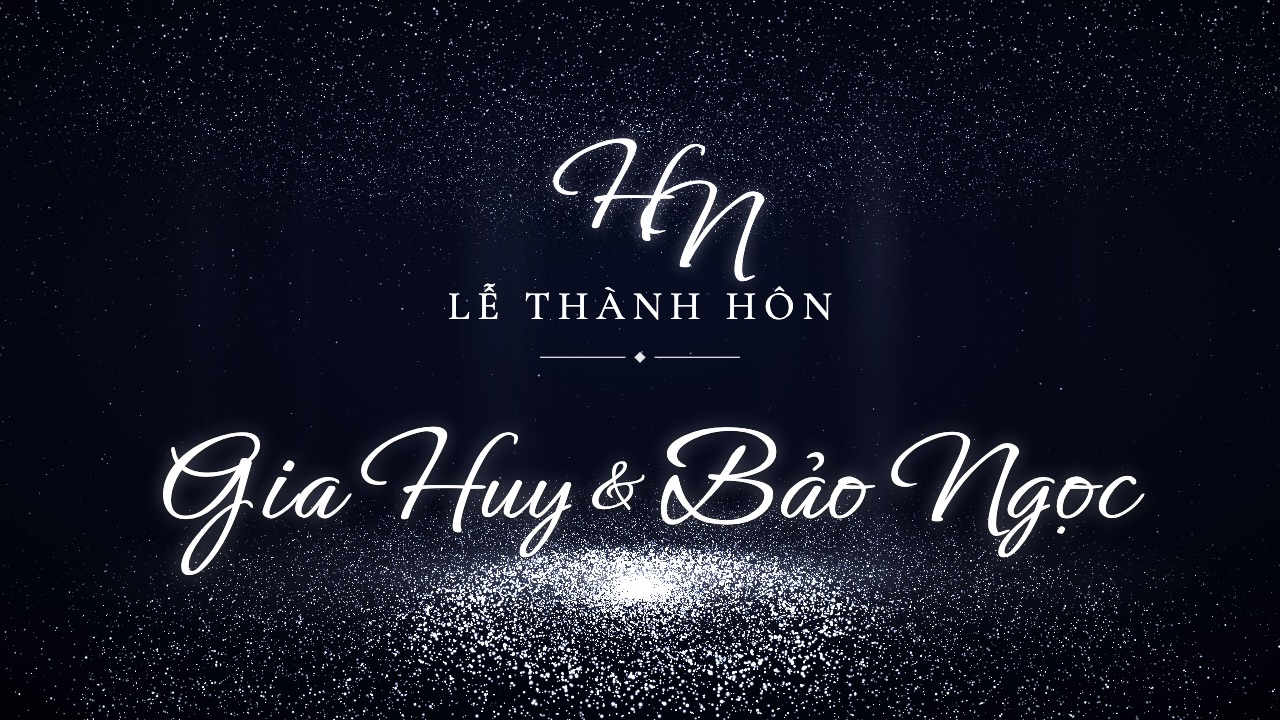
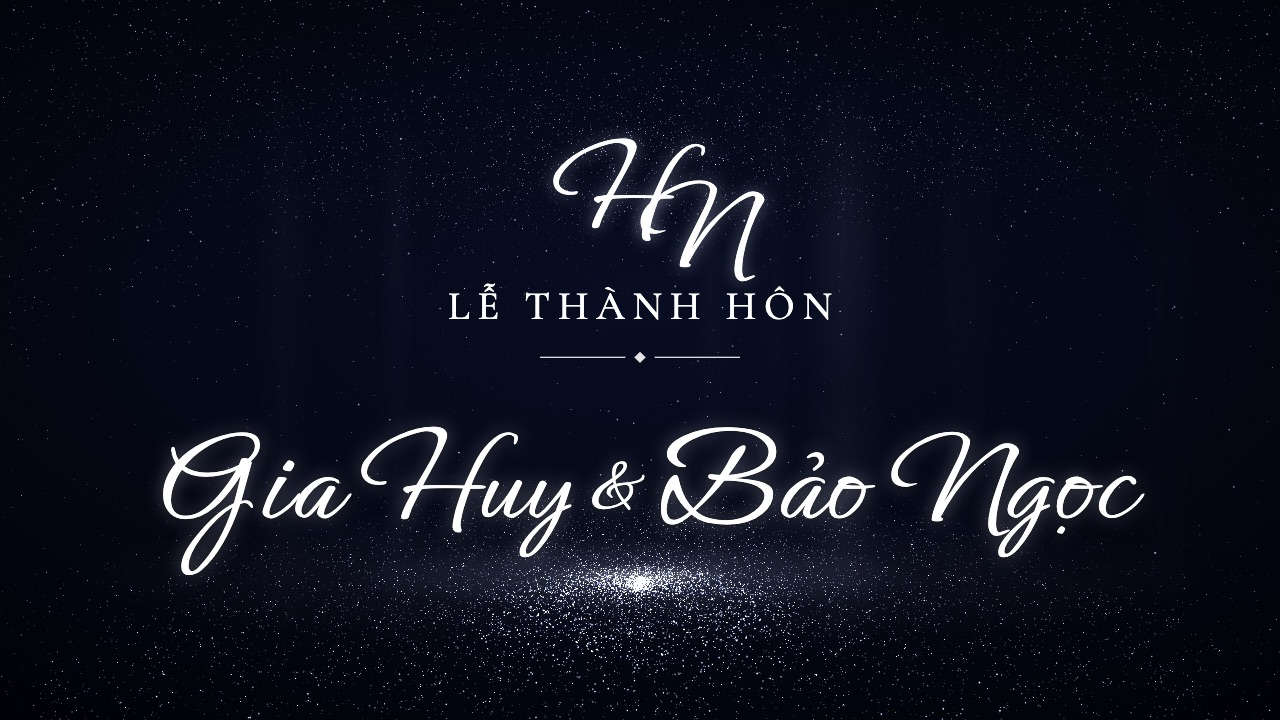
Màn LED "Sao rơi": nhẹ nhàng hơn — hạt kim tuyến nhỏ và dịu hơn (cỡ ×0,72, sáng ×0,6), ít hạt hơn; tâm đĩa bớt chói; khi sao chạm sàn thì loé nhỏ hơn, ít hạt bắn, đĩa chỉ sáng lên vừa phải rồi dịu chậm, vòng sóng mềm và rộng hơn; ngôi sao bớt gắt

diff --git a/public/led/led.js b/public/led/led.js
@@ -250,7 +250,7 @@
         }
         // quầng sáng tâm sàn (đập rất nhẹ) và vệt sáng mờ dọc dải trần
         var pul = 0.85 + 0.15 * Math.sin(t * 0.9 * sp);
-        ctx.globalAlpha = (this.mode === 'saoroi' && this.useGl ? 0.3 + 0.7 * GLFX.glow : this.useGl ? 0.16 : 0.9) * pul; // bản WebGL: chỉ còn một quầng rất nhạt, không thành cụm trắng
+        ctx.globalAlpha = (this.mode === 'saoroi' && this.useGl ? 0.16 + 0.34 * GLFX.glow : this.useGl ? 0.16 : 0.9) * pul; // bản WebGL: chỉ còn một quầng rất nhạt, không thành cụm trắng
         ctx.drawImage(this.core, W / 2 - W * 0.45, floor - H * 0.1, W * 0.9, H * 0.2);
         if (!this.useGl) { ctx.globalAlpha = 0.22; ctx.drawImage(this.core, W / 2 - W * 0.55, top - H * 0.045, W * 1.1, H * 0.09); }
         // kim tuyến: 4 tấm đổi độ sáng lệch pha + trôi ngang rất chậm ngược chiều nhau → lấp lánh, có chiều sâu
@@ -618,7 +618,7 @@
   // Mọi hạt chuyển động trong shader (card đồ hoạ tính) nên hàng chục nghìn hạt vẫn 60 khung hình/giây. Máy không có WebGL → bản canvas 2D.
   var GLFX = {
     gl: null, cv: null, time: 0, rip: [], heroes: [], sparks: [], nextDrop: 0,
-    VS_PTS: 'attribute vec4 aP;uniform float uT,uAsp,uPx;uniform vec3 uRip[8];uniform vec4 uRp;uniform vec3 uCen;varying float vA;' +
+    VS_PTS: 'attribute vec4 aP;uniform float uT,uAsp,uPx;uniform vec3 uRip[8];uniform vec4 uRp;uniform vec3 uCen;uniform vec2 uSt;varying float vA;' +
       'void main(){float seed=aP.z;float tw=pow(0.5+0.5*sin(uT*(1.2+seed*3.7)+seed*61.0),3.0);' +
       'if(aP.w>1.5){gl_Position=vec4(aP.xy,0.0,1.0);float big=step(0.965,fract(seed*29.0));gl_PointSize=uPx*(1.3+2.2*fract(seed*7.3)+big*3.5);vA=(0.18+0.82*tw)*(0.55+0.45*fract(seed*3.1)+big*0.5);return;}' +
       'float fl=aP.w<0.5?1.0:0.0;float ang=aP.y+uT*(fl>0.5?0.03:-0.02)*(1.0+0.7/(0.5+aP.x));' +
@@ -626,8 +626,8 @@
       'if(fl>0.5){for(int i=0;i<8;i++){float age=uT-uRip[i].z;if(age>0.0&&age<6.0){float d=distance(p.xz,uRip[i].xy);' +
       'float w=exp(-pow((d-age*uRp.x)/uRp.y,2.0))*exp(-age*uRp.z);float w2=exp(-pow((d-age*uRp.x+uRp.y*2.7)/(uRp.y*0.8),2.0))*exp(-age*uRp.z*1.6)*0.55;lift+=(w+w2)*uRp.w;}}}' +
       'p.y+=lift*0.065;float zc=3.2-p.z;float f=2.1445;gl_Position=vec4(p.x*f/uAsp*zc/zc,p.y*f,0.0,zc);gl_Position.x=p.x*f/uAsp;' +
-      'float sz=uPx*(2.4+5.0*fract(seed*13.7)*fract(seed*5.1))*2.6/zc;gl_PointSize=max(1.0,sz)*(1.0+lift*1.0);' +
-      'float far=clamp(1.3-zc*0.09,0.5,1.0);vA=((0.5+1.1*tw)*(1.15+0.35*exp(-aP.x*0.8)+fl*(uCen.x+uCen.y)*exp(-aP.x*uCen.z))*(fl>0.5?1.0:0.8)+lift*1.7)*far*smoothstep(0.15,0.7,zc)*(1.0-smoothstep(1.7,3.0,aP.x)*0.92);}',
+      'float sz=uPx*(2.4+5.0*fract(seed*13.7)*fract(seed*5.1))*2.6/zc;gl_PointSize=max(1.0,sz*uSt.x)*(1.0+lift*1.0);' +
+      'float far=clamp(1.3-zc*0.09,0.5,1.0);vA=((0.5+1.1*tw)*(1.15+0.35*exp(-aP.x*0.8)+fl*(uCen.x+uCen.y)*exp(-aP.x*uCen.z))*(fl>0.5?1.0:0.8)+lift*1.7)*far*smoothstep(0.15,0.7,zc)*(1.0-smoothstep(1.7,3.0,aP.x)*0.92)*uSt.y;}',
     VS_DROP: 'attribute vec4 aD;attribute float aTail;uniform float uT,uAsp,uPx;varying float vA;' +
       'void main(){float f=fract(uT*aD.w+aD.z);float ft=max(f-0.01-0.028*f,0.0);float ff=aTail>0.5?ft:f;' +
       'float y0=0.95+(fract(aD.z*53.0)-0.5)*0.5;vec3 p=vec3(aD.x,y0-ff*ff*(y0+0.95),aD.y);float zc=3.2-p.z;float k=2.1445;gl_Position=vec4(p.x*k/uAsp,p.y*k,0.0,zc);' +
@@ -653,9 +653,9 @@
         var dens = Math.max(0.3, L.density), i, a = [];
         // sàn + trần: một phần hạt rải đều cả đĩa, một phần dồn về tâm (tâm sáng rực)
         var disc = function (n, kind, R, pw) { for (var q = 0; q < n; q++) { var u = Math.random(); a.push(R * Math.pow(u, pw || 0.62), Math.random() * 6.2832, Math.random(), kind); } };
-        if (this.mode === 'saoroi') { disc(Math.round(26000 * dens), 0, 1.9, 1.35); disc(Math.round(11000 * dens), 0, 3.0); } // Sao rơi: sàn là một đĩa kim tuyến gọn, dày ở tâm
+        if (this.mode === 'saoroi') { disc(Math.round(15000 * dens), 0, 2.0, 1.2); disc(Math.round(8000 * dens), 0, 3.0); } // Sao rơi: sàn là một đĩa kim tuyến gọn, dày ở tâm
         else disc(Math.round(34000 * dens), 0, 3.0);
-        disc(Math.round(24000 * dens), 1, 3.0);
+        disc(Math.round((this.mode === 'saoroi' ? 16000 : 24000) * dens), 1, 3.0);
         for (i = 0; i < Math.round(2600 * dens); i++) a.push(rnd(-1, 1), rnd(-1, 1), Math.random(), 2); // sao rải khắp trời
         for (i = 0; i < Math.round(2600 * dens); i++) { // dải ngân hà: sao dồn quanh một đường chéo qua nửa trên màn
           var mx = rnd(-1.1, 1.1), my = 0.5 + mx * 0.22 + (Math.random() + Math.random() + Math.random() - 1.5) * 0.3;
@@ -725,21 +725,21 @@
           if (fs >= 1) {
             this.rip[this.ripI] = [0, SZ, t]; this.ripI = (this.ripI + 1) % 8;
             this.glowT = t;
-            this.sparks.push({ x: 0, y: -0.95, z: SZ, vx: 0, vy: 0, vz: 0, t0: t, max: 0.9, flash: 1, big: 7 });
-            for (var q2 = 0; q2 < 28; q2++) { var a4 = rnd(0, 6.2832), v4 = rnd(0.2, 0.9); this.sparks.push({ x: 0, y: -0.95, z: SZ, vx: Math.cos(a4) * v4, vy: rnd(0.5, 1.7), vz: Math.sin(a4) * v4, t0: t, max: rnd(0.5, 1.1) }); }
+            this.sparks.push({ x: 0, y: -0.95, z: SZ, vx: 0, vy: 0, vz: 0, t0: t, max: 1.1, flash: 1, big: 4.2 });
+            for (var q2 = 0; q2 < 12; q2++) { var a4 = rnd(0, 6.2832), v4 = rnd(0.15, 0.55); this.sparks.push({ x: 0, y: -0.95, z: SZ, vx: Math.cos(a4) * v4, vy: rnd(0.5, 1.7), vz: Math.sin(a4) * v4, t0: t, max: rnd(0.5, 1.1) }); }
             this.star = null; this.nextStar = t + rnd(5, 7);
           } else for (var j2 = 0; j2 < 60; j2++) { // đầu sao + đuôi thon dần
             var fq = Math.max(0, fs - j2 * 0.006 * (0.4 + fs * 1.6)), u2 = 1 - j2 / 60;
-            put(0, 0.95 - fq * fq * 1.9, SZ, 3 + 24 * u2 * u2 * u2 + (j2 === 0 ? 30 : 0), Math.pow(u2, 1.2));
+            put(0, 0.95 - fq * fq * 1.9, SZ, 3 + 20 * u2 * u2 * u2 + (j2 === 0 ? 18 : 0), 0.8 * Math.pow(u2, 1.3));
           }
         }
-        this.glow = Math.exp(-Math.max(0, t - this.glowT) * 0.75);
+        this.glow = Math.exp(-Math.max(0, t - this.glowT) * 0.6);
       }
       for (i = this.sparks.length - 1; i >= 0; i--) {
         s = this.sparks[i];
         var age = t - s.t0, k = 1 - age / s.max;
         if (k <= 0) { this.sparks.splice(i, 1); continue; }
-        if (s.flash) { put(s.x, s.y + 0.01, s.z, (7 + 12 * (1 - k)) * (s.big || 1), (s.big ? 1 : 0.7) * k * k); continue; }
+        if (s.flash) { put(s.x, s.y + 0.01, s.z, (7 + 12 * (1 - k)) * (s.big || 1), (s.big ? 0.6 : 0.7) * k * k); continue; }
         put(s.x + s.vx * age, Math.max(-0.95, s.y + s.vy * age - 0.5 * g * age * age), s.z + s.vz * age, 2.2, 0.8 * k);
       }
       gl.viewport(0, 0, cv.width, cv.height);
@@ -757,8 +757,9 @@
       var flat = []; for (i = 0; i < 8; i++) flat.push(this.rip[i][0], this.rip[i][1], this.rip[i][2]);
       gl.uniform3fv(gl.getUniformLocation(this.pPts, 'uRip'), new Float32Array(flat));
       var sr = this.mode === 'saoroi';
-      gl.uniform4fv(gl.getUniformLocation(this.pPts, 'uRp'), sr ? [0.7, 0.2, 0.5, 0.9] : [0.62, 0.075, 0.95, 1]); // tốc độ lan, độ dày vòng, tắt dần, độ mạnh
-      gl.uniform3fv(gl.getUniformLocation(this.pPts, 'uCen'), sr ? [0.9, 3.2 * this.glow, 1.5] : [0, 0, 1]);    // sáng tâm sàn: cố định, bừng lên khi sao chạm, độ gom
+      gl.uniform4fv(gl.getUniformLocation(this.pPts, 'uRp'), sr ? [0.6, 0.22, 0.55, 0.55] : [0.62, 0.075, 0.95, 1]); // tốc độ lan, độ dày vòng, tắt dần, độ mạnh
+      gl.uniform2fv(gl.getUniformLocation(this.pPts, 'uSt'), sr ? [0.72, 0.6] : [1, 1]); // Sao rơi: hạt nhỏ và dịu hơn
+      gl.uniform3fv(gl.getUniformLocation(this.pPts, 'uCen'), sr ? [0.45, 1.5 * this.glow, 1.5] : [0, 0, 1]);    // sáng tâm sàn: cố định, bừng lên khi sao chạm, độ gom
       gl.bindBuffer(gl.ARRAY_BUFFER, this.bPts); attr(this.pPts, 'aP', 4, 16, 0);
       gl.drawArrays(gl.POINTS, 0, this.nPts);
       // thác: vệt (đoạn thẳng) + đầu hạt
